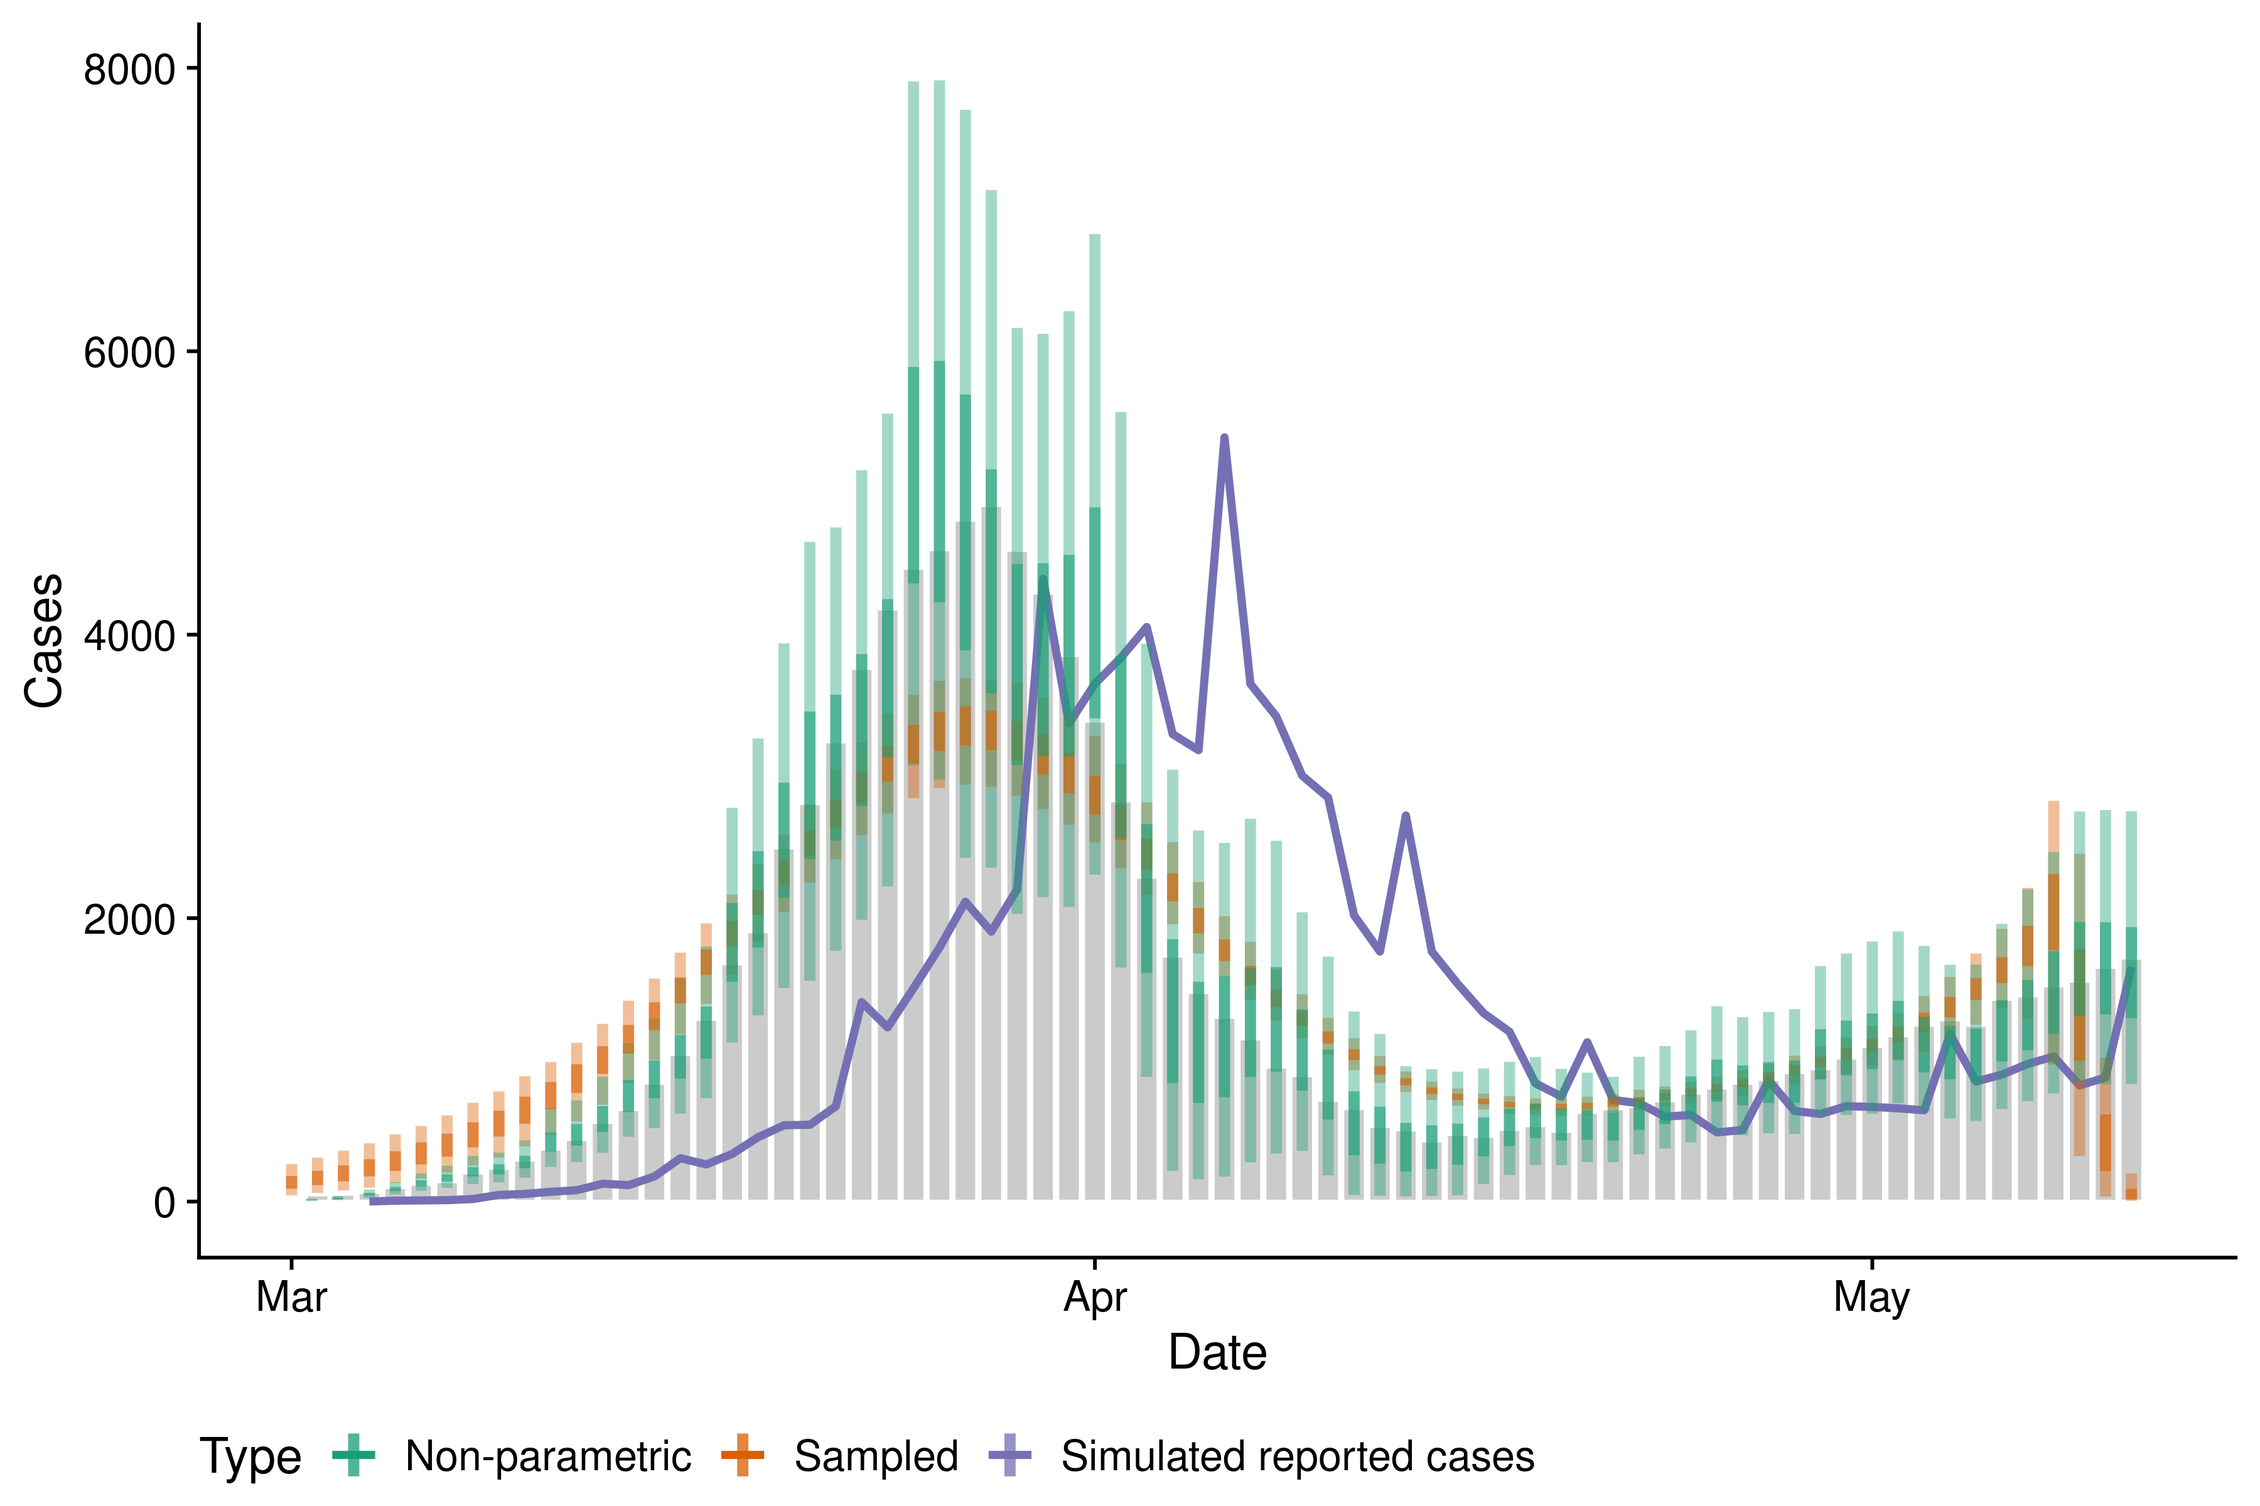
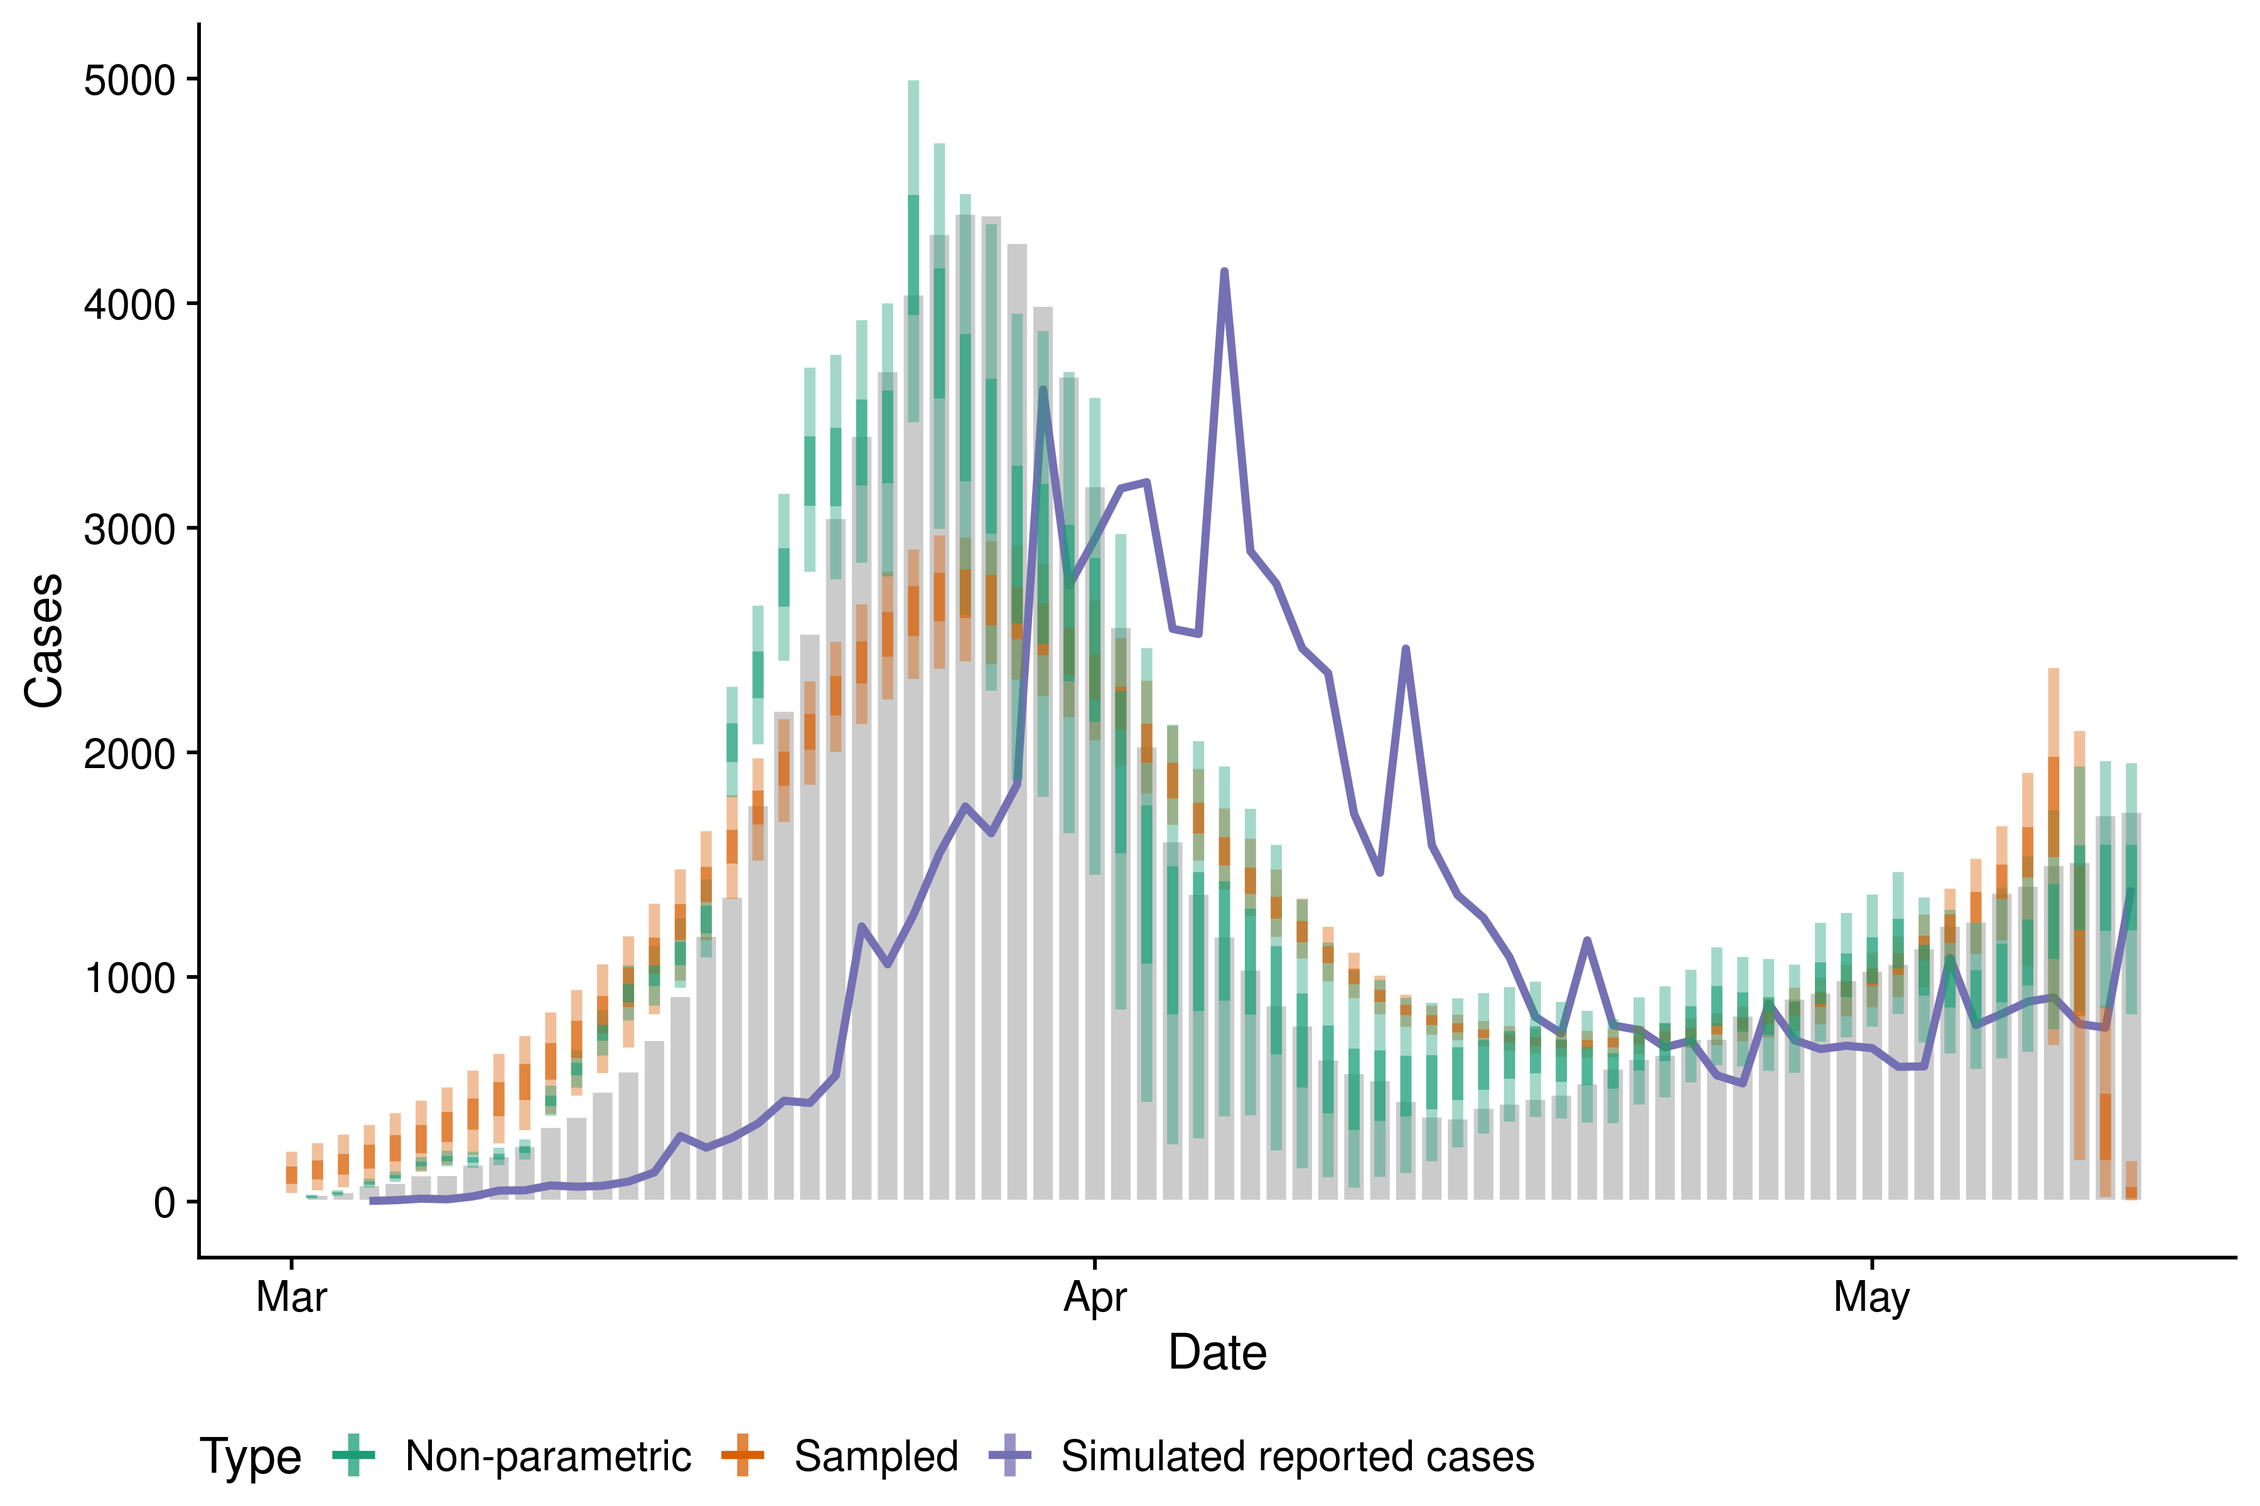
some learnings from branch

diff --git a/report.md b/report.md
@@ -63,8 +63,8 @@ model
 #>   vector convolve(vector cases, vector pdf) {
 #>     int t = num_elements(cases);
 #>     matrix[t, t] delay_mat = rep_matrix(0, t, t);
-#>     int max_pdf = num_elements(pdf);
-#>     row_vector[max_pdf] row_pdf = to_row_vector(pdf);
+#>     int max_pdf = num_elements(pdf) + 1;
+#>     row_vector[max_pdf] row_pdf = to_row_vector(append_row(pdf, 0.0));
 #>     vector[t] convolved_cases;
 #>     
 #>     for (s in 1:t) {
@@ -74,6 +74,8 @@ model
 #>   
 #>    convolved_cases = delay_mat * to_vector(cases);
 #> 
+#>    convolved_cases[1] = 0.000001;
+#>    
 #>    return convolved_cases;
 #>   }
 #> 
@@ -160,7 +162,7 @@ model
 #>   
 #>   for (s in 1:t) {
 #>     //Calculate weekly reports
-#>     weekly_reports[s] = cum_reports[s] - cum_reports[max(1, s - 7)];
+#>     weekly_reports[s] = s == 1 ? cum_reports[1] : cum_reports[s] - cum_reports[max(1, s - 7)];
 #>     // Add reporting effects
 #>     reports[s] *= day_of_week_eff[day_of_week[s]];
 #>     }
@@ -200,11 +202,8 @@ model
 #>   
 #> generated quantities {
 #>   int imputed_infections[t];
-#>   if (model_type == 1) {
-#>     imputed_infections = poisson_rng(infections);
-#>   }else{
-#>     imputed_infections = neg_binomial_2_rng(infections, phi);
-#>   }
+#>  
+#>   imputed_infections = poisson_rng(infections);
 #> 
 #> }
 ```
@@ -283,17 +282,17 @@ simulated_cases <- EpiNow::simulate_cases(rts, initial_cases = 100 , initial_dat
                                           reporting_effect = c(1.4, rep(1, 4), 0.8, 0.8))
 simulated_cases
 #>            date cases reference
-#>   1: 2020-03-02    50 infection
-#>   2: 2020-03-03    54 infection
-#>   3: 2020-03-04    67 infection
-#>   4: 2020-03-05   101 infection
-#>   5: 2020-03-06   125 infection
+#>   1: 2020-03-02    34 infection
+#>   2: 2020-03-03    46 infection
+#>   3: 2020-03-04    77 infection
+#>   4: 2020-03-05    87 infection
+#>   5: 2020-03-06   121 infection
 #>  ---                           
-#> 207: 2020-05-07   971    report
-#> 208: 2020-05-08  1024    report
-#> 209: 2020-05-09   819    report
-#> 210: 2020-05-10   876    report
-#> 211: 2020-05-11  1657    report
+#> 206: 2020-05-07   890    report
+#> 207: 2020-05-08   909    report
+#> 208: 2020-05-09   791    report
+#> 209: 2020-05-10   774    report
+#> 210: 2020-05-11  1398    report
 ```
 
 ### Compare approaches on simulated data
@@ -318,9 +317,19 @@ non_parametric_cases <- nowcast(simulated_reports,
                                 family = "negbin", incubation_period = incubation_period,
                                 reporting_delay = reporting_delay,
                                 generation_interval = generation_interval, cores = 4, chains = 4,
-                                samples = 1000, return_all = TRUE, model = model,
+                                samples = 2000, warmup = 1000,
+                                return_all = TRUE, model = model,
                                 verbose = TRUE)
-#> Running for 2000 samples and 72 time steps
+#> Running for 3000 samples and 72 time steps
+#> Warning: The largest R-hat is NA, indicating chains have not mixed.
+#> Running the chains for more iterations may help. See
+#> http://mc-stan.org/misc/warnings.html#r-hat
+#> Warning: Bulk Effective Samples Size (ESS) is too low, indicating posterior means and medians may be unreliable.
+#> Running the chains for more iterations may help. See
+#> http://mc-stan.org/misc/warnings.html#bulk-ess
+#> Warning: Tail Effective Samples Size (ESS) is too low, indicating posterior variances and tail quantiles may be unreliable.
+#> Running the chains for more iterations may help. See
+#> http://mc-stan.org/misc/warnings.html#tail-ess
 ```
 
 ### Compare approaches on reported Covid-19 cases in Austria, the United Kingdom, United States of America and Russia
@@ -365,11 +374,48 @@ results <- lapply(countries,
                                          incubation_period = incubation_period,
                                          reporting_delay = reporting_delay,
                                          generation_interval = generation_interval, 
-                                         samples = 1000, cores = 4, chains = 4,
+                                         samples = 2000, warmup = 1000,
+                                         cores = 4, chains = 4,
                                          return_all = TRUE, model = model)
         
         return(list(sampling_cases, non_parametric_cases))
                                        })
+#> Warning: The largest R-hat is NA, indicating chains have not mixed.
+#> Running the chains for more iterations may help. See
+#> http://mc-stan.org/misc/warnings.html#r-hat
+#> Warning: Bulk Effective Samples Size (ESS) is too low, indicating posterior means and medians may be unreliable.
+#> Running the chains for more iterations may help. See
+#> http://mc-stan.org/misc/warnings.html#bulk-ess
+#> Warning: Tail Effective Samples Size (ESS) is too low, indicating posterior variances and tail quantiles may be unreliable.
+#> Running the chains for more iterations may help. See
+#> http://mc-stan.org/misc/warnings.html#tail-ess
+#> Warning: The largest R-hat is NA, indicating chains have not mixed.
+#> Running the chains for more iterations may help. See
+#> http://mc-stan.org/misc/warnings.html#r-hat
+#> Warning: Bulk Effective Samples Size (ESS) is too low, indicating posterior means and medians may be unreliable.
+#> Running the chains for more iterations may help. See
+#> http://mc-stan.org/misc/warnings.html#bulk-ess
+#> Warning: Tail Effective Samples Size (ESS) is too low, indicating posterior variances and tail quantiles may be unreliable.
+#> Running the chains for more iterations may help. See
+#> http://mc-stan.org/misc/warnings.html#tail-ess
+#> Warning: The largest R-hat is NA, indicating chains have not mixed.
+#> Running the chains for more iterations may help. See
+#> http://mc-stan.org/misc/warnings.html#r-hat
+#> Warning: Bulk Effective Samples Size (ESS) is too low, indicating posterior means and medians may be unreliable.
+#> Running the chains for more iterations may help. See
+#> http://mc-stan.org/misc/warnings.html#bulk-ess
+#> Warning: Tail Effective Samples Size (ESS) is too low, indicating posterior variances and tail quantiles may be unreliable.
+#> Running the chains for more iterations may help. See
+#> http://mc-stan.org/misc/warnings.html#tail-ess
+#> Warning: The largest R-hat is NA, indicating chains have not mixed.
+#> Running the chains for more iterations may help. See
+#> http://mc-stan.org/misc/warnings.html#r-hat
+#> Warning: Bulk Effective Samples Size (ESS) is too low, indicating posterior means and medians may be unreliable.
+#> Running the chains for more iterations may help. See
+#> http://mc-stan.org/misc/warnings.html#bulk-ess
+#> Warning: Tail Effective Samples Size (ESS) is too low, indicating posterior variances and tail quantiles may be unreliable.
+#> Running the chains for more iterations may help. See
+#> http://mc-stan.org/misc/warnings.html#tail-ess
 
 names(results) <- countries
 ```
@@ -385,13 +431,13 @@ names(results) <- countries
 ``` r
 non_parametric_cases$day_of_week[, as.list(summary(value)), by = "wday"]
 #>         wday      Min.   1st Qu.    Median      Mean   3rd Qu.     Max.
-#> 1:    Monday 1.1190654 1.3301449 1.3856289 1.3879045 1.4431756 1.740700
-#> 2:   Tuesday 0.8229757 0.9748764 1.0213324 1.0243398 1.0703676 1.324536
-#> 3: Wednesday 0.8312469 0.9691534 1.0134297 1.0143509 1.0572296 1.304087
-#> 4:  Thursday 0.8114591 0.9763905 1.0210896 1.0235535 1.0693038 1.344542
-#> 5:    Friday 0.8617285 1.0056231 1.0486717 1.0524875 1.0962570 1.310068
-#> 6:  Saturday 0.6489438 0.8215581 0.8597265 0.8650650 0.9040898 1.172037
-#> 7:    Sunday 0.7030686 0.8436684 0.8843590 0.8876099 0.9285475 1.128053
+#> 1:    Monday 1.0174485 1.3550806 1.4201685 1.4220458 1.4881629 1.868068
+#> 2:   Tuesday 0.8142895 1.0287057 1.0874525 1.0910048 1.1473982 1.511989
+#> 3: Wednesday 0.7514125 1.0276177 1.0843258 1.0885426 1.1444069 1.530078
+#> 4:  Thursday 0.7761860 0.9963894 1.0541409 1.0590789 1.1162119 1.433304
+#> 5:    Friday 0.7783148 1.0089066 1.0684771 1.0735350 1.1313689 1.458221
+#> 6:  Saturday 0.6424976 0.8389461 0.8891760 0.8943547 0.9452148 1.323810
+#> 7:    Sunday 0.6775536 0.8745446 0.9258524 0.9317276 0.9833701 1.331110
 ```
 
   - Recover reporting delays
@@ -403,9 +449,9 @@ data.table::rbindlist(list(
   non_parametric_cases$rep_mean[, .(parameter = "mean", mean = mean(value), sd = sd(value))],
   non_parametric_cases$rep_sd[, .(parameter = "sd", mean = mean(value), sd = sd(value))]
 ))
-#>    parameter      mean         sd
-#> 1:      mean 1.3782441 0.02487498
-#> 2:        sd 0.5689783 0.30851332
+#>    parameter      mean          sd
+#> 1:      mean 1.2754185 0.009375587
+#> 2:        sd 0.7990047 0.021073922
 ```
 
   - Recover incubation period
@@ -418,8 +464,8 @@ data.table::rbindlist(list(
   non_parametric_cases$inc_sd[, .(parameter = "sd", mean = mean(value), sd = sd(value))]
 ))
 #>    parameter      mean          sd
-#> 1:      mean 1.4990592 0.007714307
-#> 2:        sd 0.4329428 0.012153610
+#> 1:      mean 1.4196606 0.006504040
+#> 2:        sd 0.4412908 0.008044812
 ```
 
   - Prepare data for
@@ -502,43 +548,43 @@ country
 purrr::map(results, ~ .[[2]]$day_of_week[, as.list(summary(value)), by = "wday"])
 #> $Austria
 #>         wday      Min.   1st Qu.    Median      Mean   3rd Qu.     Max.
-#> 1:    Monday 0.5927318 0.7733996 0.8346302 0.8397165 0.8977349 1.263271
-#> 2:   Tuesday 0.6910251 0.9539920 1.0191157 1.0240155 1.0882138 1.432329
-#> 3: Wednesday 0.7147801 1.0365139 1.1092983 1.1132127 1.1843984 1.608283
-#> 4:  Thursday 0.7603698 0.9684866 1.0358921 1.0391132 1.1060063 1.403142
-#> 5:    Friday 0.7801284 1.0498981 1.1199424 1.1218265 1.1882261 1.556453
-#> 6:  Saturday 0.7927248 1.1538379 1.2237964 1.2264513 1.2952796 1.623405
-#> 7:    Sunday 0.7139299 0.9511790 1.0198030 1.0247374 1.0923124 1.426632
+#> 1:    Monday 0.5794664 0.8007304 0.8649025 0.8720969 0.9364961 1.305047
+#> 2:   Tuesday 0.7025772 0.9679955 1.0380931 1.0428426 1.1126856 1.524364
+#> 3: Wednesday 0.6945579 1.0562558 1.1306746 1.1362253 1.2103449 1.626778
+#> 4:  Thursday 0.7334700 0.9888376 1.0585636 1.0652645 1.1357262 1.589740
+#> 5:    Friday 0.8471610 1.0952731 1.1683617 1.1736697 1.2486688 1.697979
+#> 6:  Saturday 0.9237876 1.2019929 1.2794368 1.2830189 1.3585253 1.725417
+#> 7:    Sunday 0.6799167 0.9970158 1.0686232 1.0728021 1.1428483 1.573362
 #> 
 #> $`United Kingdom`
-#>         wday      Min.   1st Qu.    Median      Mean   3rd Qu.     Max.
-#> 1:    Monday 0.7512457 1.0458641 1.1199028 1.1262421 1.2026619 1.611525
-#> 2:   Tuesday 0.5165016 0.8348616 0.9037527 0.9104707 0.9777852 1.517989
-#> 3: Wednesday 0.6670868 0.9075144 0.9755122 0.9813382 1.0500160 1.450841
-#> 4:  Thursday 0.7001166 0.9516667 1.0217846 1.0272663 1.0963654 1.454746
-#> 5:    Friday 0.7782634 1.0108068 1.0854092 1.0904367 1.1633567 1.603845
-#> 6:  Saturday 0.7511191 1.0299033 1.1025894 1.1054621 1.1747001 1.559523
-#> 7:    Sunday 0.8159668 1.0591894 1.1377700 1.1432255 1.2226046 1.594999
+#>         wday      Min.   1st Qu.    Median      Mean  3rd Qu.     Max.
+#> 1:    Monday 0.7704957 1.0975178 1.1783009 1.1846351 1.266897 1.709446
+#> 2:   Tuesday 0.5600606 0.8687978 0.9438033 0.9505613 1.025709 1.489195
+#> 3: Wednesday 0.6348413 0.9285696 1.0052959 1.0111598 1.088836 1.586566
+#> 4:  Thursday 0.6523556 0.9944522 1.0708601 1.0762421 1.153799 1.525281
+#> 5:    Friday 0.7117797 1.0418475 1.1179541 1.1241266 1.201492 1.690435
+#> 6:  Saturday 0.7149595 1.0537943 1.1327300 1.1384773 1.217748 1.644160
+#> 7:    Sunday 0.7211669 1.1000303 1.1795695 1.1839824 1.262443 1.656103
 #> 
 #> $`United States of America`
-#>         wday      Min.   1st Qu.    Median      Mean   3rd Qu.     Max.
-#> 1:    Monday 0.7664894 0.9108803 0.9503306 0.9518160 0.9900741 1.176280
-#> 2:   Tuesday 0.7810508 0.9447378 0.9842269 0.9882454 1.0305802 1.227700
-#> 3: Wednesday 0.7835703 0.9360037 0.9756947 0.9762278 1.0140231 1.193930
-#> 4:  Thursday 0.8134383 0.9478350 0.9861615 0.9881642 1.0258865 1.236909
-#> 5:    Friday 0.8788655 1.0425256 1.0871017 1.0883173 1.1308972 1.342752
-#> 6:  Saturday 0.9301455 1.0918874 1.1389828 1.1434254 1.1935769 1.395370
-#> 7:    Sunday 0.8476215 1.0357152 1.0750295 1.0782591 1.1195598 1.354348
+#>         wday      Min.   1st Qu.    Median      Mean  3rd Qu.     Max.
+#> 1:    Monday 0.7393030 0.9242250 0.9723943 0.9751071 1.020753 1.315316
+#> 2:   Tuesday 0.7803389 0.9618891 1.0100658 1.0134723 1.061078 1.309473
+#> 3: Wednesday 0.7131750 0.9397712 0.9846641 0.9870968 1.031019 1.290534
+#> 4:  Thursday 0.7351053 0.9632906 1.0090661 1.0122972 1.057703 1.379613
+#> 5:    Friday 0.8655975 1.0599672 1.1096836 1.1121906 1.162003 1.457849
+#> 6:  Saturday 0.9426962 1.1442980 1.1969098 1.2011499 1.253469 1.583789
+#> 7:    Sunday 0.8114018 1.0351610 1.0821592 1.0849115 1.131654 1.394933
 #> 
 #> $Russia
-#>         wday      Min.   1st Qu.    Median      Mean  3rd Qu.     Max.
-#> 1:    Monday 0.7173941 0.9959770 1.0556791 1.0603599 1.121556 1.418810
-#> 2:   Tuesday 0.6806643 0.9224963 0.9815973 0.9862169 1.043192 1.374461
-#> 3: Wednesday 0.7129118 0.9516524 1.0106674 1.0146315 1.070632 1.468565
-#> 4:  Thursday 0.7686629 1.0418027 1.1107470 1.1149173 1.182414 1.563897
-#> 5:    Friday 0.7733246 1.0115712 1.0755805 1.0785990 1.139767 1.511377
-#> 6:  Saturday 0.8384414 1.0766263 1.1408221 1.1472256 1.210748 1.606291
-#> 7:    Sunday 0.7136652 0.9641468 1.0227347 1.0266152 1.084384 1.379870
+#>         wday      Min.   1st Qu.   Median     Mean  3rd Qu.     Max.
+#> 1:    Monday 0.7205091 1.0102436 1.078615 1.084635 1.153060 1.586843
+#> 2:   Tuesday 0.6948179 0.9457569 1.010953 1.016884 1.083421 1.539414
+#> 3: Wednesday 0.7003489 0.9617205 1.027646 1.032745 1.098721 1.504492
+#> 4:  Thursday 0.8071000 1.0800627 1.152908 1.158319 1.229249 1.637651
+#> 5:    Friday 0.8085739 1.0450690 1.111733 1.116492 1.184014 1.559754
+#> 6:  Saturday 0.8852567 1.1387854 1.213926 1.218730 1.295318 1.702947
+#> 7:    Sunday 0.7269359 0.9980395 1.064343 1.069578 1.136069 1.498637
 ```
 
   - Prepare data for
